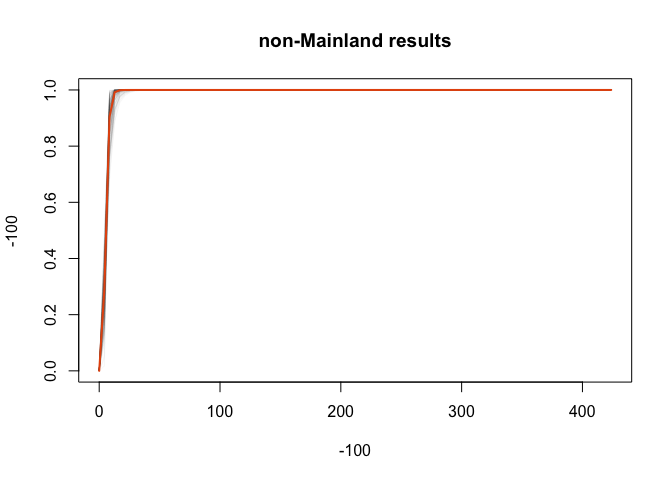
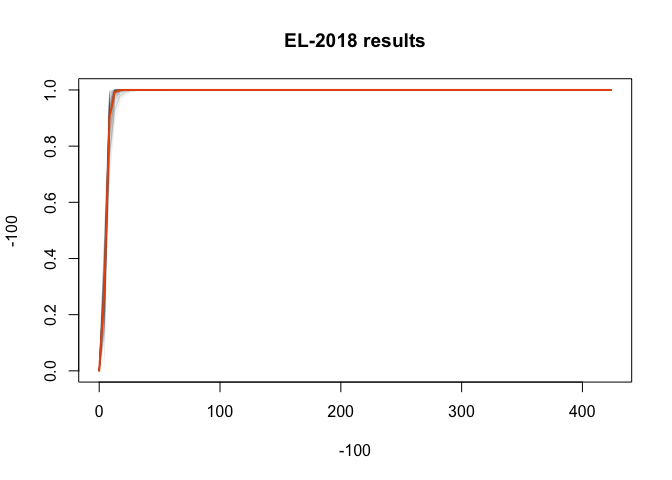
typo in EL-2018 figure title

Changed region(s): [[0.375, 0.0625, 0.6875, 0.125]]

diff --git a/README.md b/README.md
@@ -1,7 +1,7 @@
 Real-time estimation of the Wuhan coronavirus incubation time
 =============================================================
 
-Updated: Tue Jan 28 20:12:39 2020
+Updated: Tue Jan 28 20:18:30 2020
 
 Our lab has been collecting data on the exposure and symptom onset for
 Wuhan novel coronavirus (nCoV-2019) cases that have been confirmed
